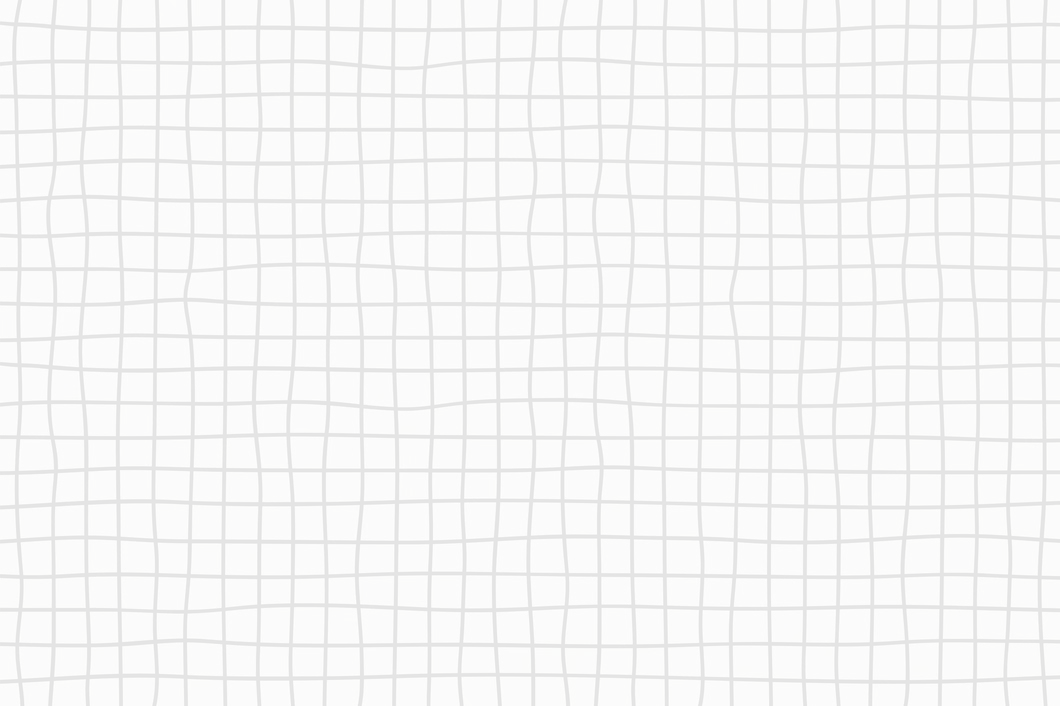
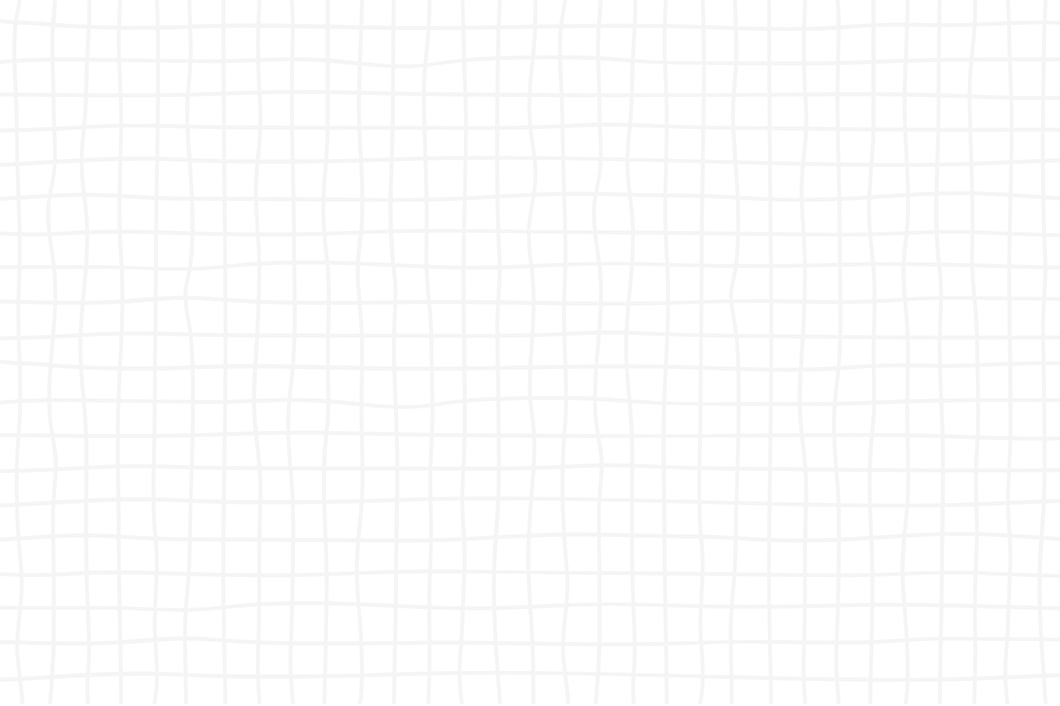
Ajout d'une image pour les boutons et tooltips

diff --git a/Formulaire_principal/FrmMission.Designer.cs b/Formulaire_principal/FrmMission.Designer.cs
@@ -28,6 +28,7 @@
         /// </summary>
         private void InitializeComponent()
         {
+            this.components = new System.ComponentModel.Container();
             this.grpNouvelleMission = new System.Windows.Forms.GroupBox();
             this.pnlSection1 = new System.Windows.Forms.Panel();
             this.btnValidMission = new System.Windows.Forms.Button();
@@ -75,6 +76,13 @@
             this.cboMembres = new System.Windows.Forms.ComboBox();
             this.lblreste = new System.Windows.Forms.Label();
             this.lblAffect = new System.Windows.Forms.Label();
+            this.ttValidMission = new System.Windows.Forms.ToolTip(this.components);
+            this.ttAddMembre = new System.Windows.Forms.ToolTip(this.components);
+            this.ttSuppMembre = new System.Windows.Forms.ToolTip(this.components);
+            this.ttValidMembre = new System.Windows.Forms.ToolTip(this.components);
+            this.ttAddCapture = new System.Windows.Forms.ToolTip(this.components);
+            this.ttSuppCapture = new System.Windows.Forms.ToolTip(this.components);
+            this.ttValidCapture = new System.Windows.Forms.ToolTip(this.components);
             this.grpNouvelleMission.SuspendLayout();
             this.pnlSection1.SuspendLayout();
             this.grpPrecisions.SuspendLayout();
@@ -91,7 +99,7 @@
             this.grpNouvelleMission.Font = new System.Drawing.Font("Kristen ITC", 9F, System.Drawing.FontStyle.Regular, System.Drawing.GraphicsUnit.Point, ((byte)(0)));
             this.grpNouvelleMission.Location = new System.Drawing.Point(17, 14);
             this.grpNouvelleMission.Name = "grpNouvelleMission";
-            this.grpNouvelleMission.Size = new System.Drawing.Size(1048, 1314);
+            this.grpNouvelleMission.Size = new System.Drawing.Size(1048, 1293);
             this.grpNouvelleMission.TabIndex = 0;
             this.grpNouvelleMission.TabStop = false;
             this.grpNouvelleMission.Text = "Nouvelle mission";
@@ -124,17 +132,19 @@
             this.pnlSection1.Controls.Add(this.lblChoix);
             this.pnlSection1.Location = new System.Drawing.Point(31, 36);
             this.pnlSection1.Name = "pnlSection1";
-            this.pnlSection1.Size = new System.Drawing.Size(1001, 1239);
+            this.pnlSection1.Size = new System.Drawing.Size(1001, 1218);
             this.pnlSection1.TabIndex = 0;
             // 
             // btnValidMission
             // 
+            this.btnValidMission.BackgroundImage = global::Formulaire_principal.Properties.Resources.valider;
+            this.btnValidMission.BackgroundImageLayout = System.Windows.Forms.ImageLayout.Stretch;
             this.btnValidMission.Cursor = System.Windows.Forms.Cursors.Hand;
-            this.btnValidMission.Location = new System.Drawing.Point(772, 1108);
+            this.btnValidMission.Location = new System.Drawing.Point(839, 1088);
             this.btnValidMission.Name = "btnValidMission";
-            this.btnValidMission.Size = new System.Drawing.Size(188, 86);
+            this.btnValidMission.Size = new System.Drawing.Size(105, 88);
             this.btnValidMission.TabIndex = 60;
-            this.btnValidMission.Text = "Valider la mission";
+            this.ttValidMission.SetToolTip(this.btnValidMission, "Valider la mission");
             this.btnValidMission.UseVisualStyleBackColor = true;
             this.btnValidMission.Click += new System.EventHandler(this.btnValidMission_Click);
             // 
@@ -373,7 +383,7 @@
             this.grpPrecisions.Font = new System.Drawing.Font("Kristen ITC", 9F, System.Drawing.FontStyle.Regular, System.Drawing.GraphicsUnit.Point, ((byte)(0)));
             this.grpPrecisions.Location = new System.Drawing.Point(1055, 14);
             this.grpPrecisions.Name = "grpPrecisions";
-            this.grpPrecisions.Size = new System.Drawing.Size(1089, 1307);
+            this.grpPrecisions.Size = new System.Drawing.Size(1089, 1293);
             this.grpPrecisions.TabIndex = 1;
             this.grpPrecisions.TabStop = false;
             this.grpPrecisions.Text = "Précisions sur la mission créée";
@@ -395,34 +405,41 @@
             // 
             // btnSuppSelectCapt
             // 
+            this.btnSuppSelectCapt.BackgroundImage = global::Formulaire_principal.Properties.Resources.supprimer;
+            this.btnSuppSelectCapt.BackgroundImageLayout = System.Windows.Forms.ImageLayout.Stretch;
             this.btnSuppSelectCapt.Cursor = System.Windows.Forms.Cursors.Hand;
-            this.btnSuppSelectCapt.Location = new System.Drawing.Point(729, 175);
+            this.btnSuppSelectCapt.Location = new System.Drawing.Point(733, 252);
             this.btnSuppSelectCapt.Name = "btnSuppSelectCapt";
-            this.btnSuppSelectCapt.Size = new System.Drawing.Size(243, 93);
+            this.btnSuppSelectCapt.Size = new System.Drawing.Size(105, 88);
             this.btnSuppSelectCapt.TabIndex = 41;
-            this.btnSuppSelectCapt.Text = "Supprimer la sélection";
+            this.ttSuppCapture.SetToolTip(this.btnSuppSelectCapt, "Supprimer le(s) objectif(s) sélectionné(s)\r\n(ctrl click pour en sélectionner plus" +
+        "ieurs)");
             this.btnSuppSelectCapt.UseVisualStyleBackColor = true;
             this.btnSuppSelectCapt.Click += new System.EventHandler(this.btnSuppSelectCapt_Click);
             // 
             // btnAddCapture
             // 
+            this.btnAddCapture.BackgroundImage = global::Formulaire_principal.Properties.Resources.ajouter;
+            this.btnAddCapture.BackgroundImageLayout = System.Windows.Forms.ImageLayout.Stretch;
             this.btnAddCapture.Cursor = System.Windows.Forms.Cursors.Hand;
-            this.btnAddCapture.Location = new System.Drawing.Point(793, 107);
+            this.btnAddCapture.Location = new System.Drawing.Point(733, 81);
             this.btnAddCapture.Name = "btnAddCapture";
-            this.btnAddCapture.Size = new System.Drawing.Size(179, 49);
+            this.btnAddCapture.Size = new System.Drawing.Size(105, 88);
             this.btnAddCapture.TabIndex = 40;
-            this.btnAddCapture.Text = "Ajouter";
+            this.ttAddCapture.SetToolTip(this.btnAddCapture, "Ajouter l\'objectif de capture à la liste");
             this.btnAddCapture.UseVisualStyleBackColor = true;
             this.btnAddCapture.Click += new System.EventHandler(this.btnAddCapture_Click);
             // 
             // btnValidObj
             // 
+            this.btnValidObj.BackgroundImage = global::Formulaire_principal.Properties.Resources.valider;
+            this.btnValidObj.BackgroundImageLayout = System.Windows.Forms.ImageLayout.Stretch;
             this.btnValidObj.Cursor = System.Windows.Forms.Cursors.Hand;
-            this.btnValidObj.Location = new System.Drawing.Point(772, 304);
+            this.btnValidObj.Location = new System.Drawing.Point(897, 252);
             this.btnValidObj.Name = "btnValidObj";
-            this.btnValidObj.Size = new System.Drawing.Size(200, 54);
+            this.btnValidObj.Size = new System.Drawing.Size(105, 88);
             this.btnValidObj.TabIndex = 39;
-            this.btnValidObj.Text = "Valider Objectifs";
+            this.ttValidCapture.SetToolTip(this.btnValidObj, "Valider les objectifs de capture");
             this.btnValidObj.UseVisualStyleBackColor = true;
             this.btnValidObj.Click += new System.EventHandler(this.btnValidObj_Click);
             // 
@@ -485,19 +502,22 @@
             // 
             // btnSuppSelect
             // 
+            this.btnSuppSelect.BackgroundImage = global::Formulaire_principal.Properties.Resources.supprimer;
+            this.btnSuppSelect.BackgroundImageLayout = System.Windows.Forms.ImageLayout.Stretch;
             this.btnSuppSelect.Cursor = System.Windows.Forms.Cursors.Hand;
-            this.btnSuppSelect.Location = new System.Drawing.Point(473, 730);
+            this.btnSuppSelect.Location = new System.Drawing.Point(732, 721);
             this.btnSuppSelect.Name = "btnSuppSelect";
-            this.btnSuppSelect.Size = new System.Drawing.Size(272, 55);
+            this.btnSuppSelect.Size = new System.Drawing.Size(105, 88);
             this.btnSuppSelect.TabIndex = 26;
-            this.btnSuppSelect.Text = "Supprimer la sélection";
+            this.ttSuppMembre.SetToolTip(this.btnSuppSelect, "Supprimer le(s) membre(s) sélectionné(s)\r\n(ctrl click pour en sélectionner plusie" +
+        "urs)");
             this.btnSuppSelect.UseVisualStyleBackColor = true;
             this.btnSuppSelect.Click += new System.EventHandler(this.btnSuppSelect_Click);
             // 
             // btnAddSelect
             // 
             this.btnAddSelect.Cursor = System.Windows.Forms.Cursors.Hand;
-            this.btnAddSelect.Location = new System.Drawing.Point(396, 382);
+            this.btnAddSelect.Location = new System.Drawing.Point(289, 382);
             this.btnAddSelect.Name = "btnAddSelect";
             this.btnAddSelect.Size = new System.Drawing.Size(272, 55);
             this.btnAddSelect.TabIndex = 25;
@@ -518,9 +538,9 @@
             // btnRefaire
             // 
             this.btnRefaire.Cursor = System.Windows.Forms.Cursors.Hand;
-            this.btnRefaire.Location = new System.Drawing.Point(699, 382);
+            this.btnRefaire.Location = new System.Drawing.Point(610, 382);
             this.btnRefaire.Name = "btnRefaire";
-            this.btnRefaire.Size = new System.Drawing.Size(272, 55);
+            this.btnRefaire.Size = new System.Drawing.Size(361, 55);
             this.btnRefaire.TabIndex = 16;
             this.btnRefaire.Text = "Refaire la même équipe";
             this.btnRefaire.UseVisualStyleBackColor = true;
@@ -533,7 +553,7 @@
             this.lstbMembres.Location = new System.Drawing.Point(43, 532);
             this.lstbMembres.Name = "lstbMembres";
             this.lstbMembres.SelectionMode = System.Windows.Forms.SelectionMode.MultiExtended;
-            this.lstbMembres.Size = new System.Drawing.Size(928, 169);
+            this.lstbMembres.Size = new System.Drawing.Size(958, 169);
             this.lstbMembres.TabIndex = 15;
             // 
             // lblNomMembre
@@ -558,23 +578,27 @@
             // 
             // btnvalidMembres
             // 
+            this.btnvalidMembres.BackgroundImage = global::Formulaire_principal.Properties.Resources.valider;
+            this.btnvalidMembres.BackgroundImageLayout = System.Windows.Forms.ImageLayout.Stretch;
             this.btnvalidMembres.Cursor = System.Windows.Forms.Cursors.Hand;
-            this.btnvalidMembres.Location = new System.Drawing.Point(771, 730);
+            this.btnvalidMembres.Location = new System.Drawing.Point(896, 721);
             this.btnvalidMembres.Name = "btnvalidMembres";
-            this.btnvalidMembres.Size = new System.Drawing.Size(200, 55);
+            this.btnvalidMembres.Size = new System.Drawing.Size(105, 88);
             this.btnvalidMembres.TabIndex = 11;
-            this.btnvalidMembres.Text = "Valider membres";
+            this.ttAddMembre.SetToolTip(this.btnvalidMembres, "Valider les membres");
             this.btnvalidMembres.UseVisualStyleBackColor = true;
             this.btnvalidMembres.Click += new System.EventHandler(this.btnvalidMembres_Click);
             // 
             // btnAddMembre
             // 
+            this.btnAddMembre.BackgroundImage = global::Formulaire_principal.Properties.Resources.ajouter;
+            this.btnAddMembre.BackgroundImageLayout = System.Windows.Forms.ImageLayout.Stretch;
             this.btnAddMembre.Cursor = System.Windows.Forms.Cursors.Hand;
-            this.btnAddMembre.Location = new System.Drawing.Point(792, 71);
+            this.btnAddMembre.Location = new System.Drawing.Point(732, 56);
             this.btnAddMembre.Name = "btnAddMembre";
-            this.btnAddMembre.Size = new System.Drawing.Size(179, 49);
+            this.btnAddMembre.Size = new System.Drawing.Size(105, 88);
             this.btnAddMembre.TabIndex = 9;
-            this.btnAddMembre.Text = "Ajouter";
+            this.ttAddMembre.SetToolTip(this.btnAddMembre, "Ajouter le membre dans la liste \"Les membres affectés\"");
             this.btnAddMembre.UseVisualStyleBackColor = true;
             this.btnAddMembre.Click += new System.EventHandler(this.btnAddMembre_Click);
             // 
@@ -585,7 +609,7 @@
             this.cboMembres.FormattingEnabled = true;
             this.cboMembres.Location = new System.Drawing.Point(43, 80);
             this.cboMembres.Name = "cboMembres";
-            this.cboMembres.Size = new System.Drawing.Size(703, 41);
+            this.cboMembres.Size = new System.Drawing.Size(651, 41);
             this.cboMembres.TabIndex = 8;
             this.cboMembres.SelectedIndexChanged += new System.EventHandler(this.cboMembres_SelectedIndexChanged);
             // 
@@ -614,7 +638,6 @@
             this.AutoScaleDimensions = new System.Drawing.SizeF(12F, 25F);
             this.AutoScaleMode = System.Windows.Forms.AutoScaleMode.Font;
             this.AutoSize = true;
-            this.BackgroundImage = global::Formulaire_principal.Properties.Resources.fond_mission;
             this.ClientSize = new System.Drawing.Size(2156, 1333);
             this.Controls.Add(this.grpPrecisions);
             this.Controls.Add(this.grpNouvelleMission);
@@ -685,5 +708,12 @@
         private System.Windows.Forms.NumericUpDown nud1;
         private System.Windows.Forms.ComboBox cboCaptures;
         private System.Windows.Forms.Label lblObjCapture;
+        private System.Windows.Forms.ToolTip ttValidMission;
+        private System.Windows.Forms.ToolTip ttAddMembre;
+        private System.Windows.Forms.ToolTip ttSuppMembre;
+        private System.Windows.Forms.ToolTip ttSuppCapture;
+        private System.Windows.Forms.ToolTip ttAddCapture;
+        private System.Windows.Forms.ToolTip ttValidCapture;
+        private System.Windows.Forms.ToolTip ttValidMembre;
     }
 }

diff --git a/Formulaire_principal/Properties/Resources.Designer.cs b/Formulaire_principal/Properties/Resources.Designer.cs
@@ -63,9 +63,39 @@ namespace Formulaire_principal.Properties {
         /// <summary>
         ///   Recherche une ressource localisée de type System.Drawing.Bitmap.
         /// </summary>
+        internal static System.Drawing.Bitmap ajouter {
+            get {
+                object obj = ResourceManager.GetObject("ajouter", resourceCulture);
+                return ((System.Drawing.Bitmap)(obj));
+            }
+        }
+        
+        /// <summary>
+        ///   Recherche une ressource localisée de type System.Drawing.Bitmap.
+        /// </summary>
         internal static System.Drawing.Bitmap fond_mission {
             get {
                 object obj = ResourceManager.GetObject("fond_mission", resourceCulture);
+                return ((System.Drawing.Bitmap)(obj));
+            }
+        }
+        
+        /// <summary>
+        ///   Recherche une ressource localisée de type System.Drawing.Bitmap.
+        /// </summary>
+        internal static System.Drawing.Bitmap supprimer {
+            get {
+                object obj = ResourceManager.GetObject("supprimer", resourceCulture);
+                return ((System.Drawing.Bitmap)(obj));
+            }
+        }
+        
+        /// <summary>
+        ///   Recherche une ressource localisée de type System.Drawing.Bitmap.
+        /// </summary>
+        internal static System.Drawing.Bitmap valider {
+            get {
+                object obj = ResourceManager.GetObject("valider", resourceCulture);
                 return ((System.Drawing.Bitmap)(obj));
             }
         }

diff --git a/Formulaire_principal/FrmMission.cs b/Formulaire_principal/FrmMission.cs
@@ -19,6 +19,8 @@ namespace Formulaire_principal
         public string Name { get; set; }
         public int Value { get; set; }
 
+        public int Quantite { get; set; }
+
         public override string ToString()
         {
             return Name;
@@ -569,19 +571,28 @@ namespace Formulaire_principal
             //Pour ajouter une capture à lstbCaptures, on créé un ListItemCapture à partir de notre sélection dans cboCaptures
             List<int> values = new List<int>();
             string texte = cboCaptures.Text + "--> objectif de capture : " + nud1.Value.ToString();
-            ListItemCapture li = new ListItemCapture { Name = texte, Value = int.Parse(cboCaptures.SelectedValue.ToString()) };
+            ListItemCapture li = new ListItemCapture { Name = texte, Value = int.Parse(cboCaptures.SelectedValue.ToString()), Quantite = Convert.ToInt32(nud1.Value) };
             for (int i = 0; i < lstbCaptures.Items.Count; i++)
             {
                 values.Add(((ListItemCapture)lstbCaptures.Items[i]).Value);
             }
-            if (!values.Contains(li.Value))
+            if (values.Contains(li.Value))
             {
+                li.Quantite += Convert.ToInt32(nud1.Value);
                 lstbCaptures.Items.Add(li);
             }
             else
             {
-                MessageBox.Show("Espèce déjà présente dans la liste !");
+                if(!values.Contains(li.Value))
+                {
+                    lstbCaptures.Items.Add(li);
+                }
+                else
+                {
+                    MessageBox.Show("Espèce déjà présente dans la liste !");
+                }
             }
+
             
         }
 
@@ -596,6 +607,7 @@ namespace Formulaire_principal
                 for (int i = 0; i < lstbCaptures.Items.Count; i++)
                 {
                     int id = ((ListItemCapture)lstbCaptures.Items[i]).Value;
+                    int quant = ((ListItemCapture)lstbCaptures.Items[i]).Quantite;
 
                     string sql = @"INSERT INTO Capturer (nomPlanete,numeroMission,idEspeceEnnemi,nombre)
                             VALUES (@nomPlanete,@numeroMission,@idEspeceEnnemi,@nombre)";
@@ -605,7 +617,7 @@ namespace Formulaire_principal
                     cmd.Parameters.AddWithValue("@nomPlanete", cboPlanete.Text);
                     cmd.Parameters.AddWithValue("numeroMission", lblNum.Text);
                     cmd.Parameters.AddWithValue("@idEspeceEnnemi", id);
-                    cmd.Parameters.AddWithValue("@nombre", int.Parse(nud1.Value.ToString()));
+                    cmd.Parameters.AddWithValue("@nombre", quant);
 
                     cmd.ExecuteNonQuery();
                     